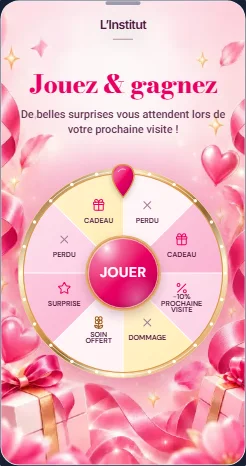
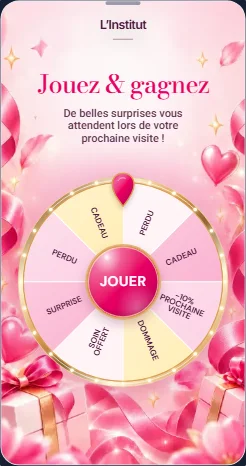
fix(beauty-pop): narrow subtitle and restore text-only radial labels (#626)

Changed region(s): [[0.0569, 0.1502, 0.939, 0.8412]]

diff --git a/apps/web-app/src/components/public/wheel-of-fortune.tsx b/apps/web-app/src/components/public/wheel-of-fortune.tsx
@@ -1,7 +1,6 @@
 "use client";
 
 import { useEffect, useId, useState } from "react";
-import { Flower2, Gift, Percent, Star, X } from "lucide-react";
 import { BeautyPopRim } from "./beauty-pop-rim";
 import { HalloweenWheelVisual } from "@/components/public/halloween-wheel-art";
 import { halloweenWheelVisualSegments } from "@/lib/halloween-wheel-theme";
@@ -545,7 +544,6 @@ export function WheelOfFortune({
               const endAngle = startAngle + segmentAngle - (isRosePowderTemplate || isBeautyTemplate ? 0 : 2.4);
               const midAngle = startAngle + (endAngle - startAngle) / 2;
               const textPoint = polarToCartesian(isRosePowderTemplate ? 208 : isBeautyTemplate ? 194 : 208, midAngle);
-              const PopIcon = segment.tone === "lose" ? X : /%/.test(segment.label) ? Percent : /soin|massage|prestation/i.test(segment.label) ? Flower2 : /surprise/i.test(segment.label) ? Star : Gift;
               const radialTextAngle = midAngle + 90;
               const uprightRadialTextAngle = radialTextAngle > 90 && radialTextAngle < 270
                 ? radialTextAngle - 180
@@ -563,7 +561,6 @@ export function WheelOfFortune({
                 }
               }
               textStyles.fontSize = enforceMinimumWheelPrizeLabelFontSize(textStyles.fontSize);
-              if (isBeautyPop) textStyles.fontSize = Math.min(textStyles.fontSize, 22);
               if (labelLines.length > 1) {
                 textStyles.lineHeight = Math.max(
                   textStyles.lineHeight,
@@ -615,17 +612,16 @@ export function WheelOfFortune({
                       vectorEffect="non-scaling-stroke"
                     />
                   ) : null}
-                  {isBeautyPop ? <PopIcon aria-hidden="true" x={textPoint.x-21} y={textPoint.y-49} width="42" height="42" color={segment.tone === "lose" ? "#a37c99" : /soin|massage/i.test(segment.label) ? "#9c5d1c" : colors.loseColor} strokeWidth={1.8} /> : null}
                   <text
                     x={textPoint.x}
-                    y={textPoint.y + (isBeautyPop ? 20 : 0)}
+                    y={textPoint.y}
                     fill={textColor}
                     fontFamily={isBeautyTemplate || isRoseInstitutTemplate ? textFontFamily("dm-sans") : "Roboto, sans-serif"}
                     fontSize={String(textStyles.fontSize)}
                     fontWeight={isBeautyTemplate || isRoseInstitutTemplate ? "600" : "850"}
                     textAnchor="middle"
                     dominantBaseline="middle"
-                    transform={isBeautyPop ? undefined : `rotate(${isBeautyTemplate || isRoseInstitutTemplate ? uprightRadialTextAngle : radialTextAngle} ${textPoint.x} ${textPoint.y})`}
+                    transform={`rotate(${isBeautyTemplate || isRoseInstitutTemplate ? uprightRadialTextAngle : radialTextAngle} ${textPoint.x} ${textPoint.y})`}
                   >
                     {labelLines.map((line, lineIndex) => (
                       <tspan

diff --git a/apps/web-app/e2e/beauty-pop.spec.ts b/apps/web-app/e2e/beauty-pop.spec.ts
@@ -42,6 +42,16 @@ for(const mode of ["public","preview"]) for(const width of [320,390]) {
     const wheel=(await surface.getByTestId("game-wheel-frame").boundingBox())!;
     expect(wheel.y).toBeGreaterThan(heading.y+heading.height);
     const secondary=(await surface.locator(".okado-wheel-subtitle").boundingBox())!;
+    const subtitleContainer=(await surface.locator(".okado-wheel-subtitle").evaluate(node=>node.parentElement!.getBoundingClientRect().width));
+    expect(secondary.width).toBeLessThanOrEqual(subtitleContainer*.81);
+    const rotor=surface.getByTestId("beauty-pop-rotor");
+    await expect(rotor.locator("svg.lucide")).toHaveCount(0);
+    const labels=rotor.locator("text");
+    await expect(labels).toHaveCount(8);
+    for(const label of await labels.all()) {
+      await expect(label).toHaveAttribute("transform",/^rotate\(/);
+      await expect(label).toHaveAttribute("font-family","var(--font-dm-sans), sans-serif");
+    }
     const pointer=(await surface.getByTestId("beauty-wheel-pointer").boundingBox())!;
     expect(pointer.y).toBeGreaterThanOrEqual(secondary.y+secondary.height);
     await assertNoPageOverflow(page);await page.evaluate(()=>document.fonts.ready);

diff --git a/apps/web-app/src/app/globals.css b/apps/web-app/src/app/globals.css
@@ -1835,7 +1835,9 @@ button:disabled,
 .okado-preview-surface[data-template-id="beauty-pop"] .okado-wheel-subtitle {
   font-size: calc(clamp(0.94rem, 3.8vw, 1.08rem) + 2px);
   font-weight: 500;
-  max-width: 30ch;
+  width: 80%;
+  max-width: 26ch;
+  margin-inline: auto;
   line-height: 1.22;
 }
 

diff --git a/docs/design/beauty-pop-626.md b/docs/design/beauty-pop-626.md
@@ -20,17 +20,34 @@ Pas de copie de l'heure, de la batterie ou de l'encoche de la référence.
   de graisse 800 pour Beauty Pop : le réglage du marchand est respecté.
 - Secteurs rose/ivoire/champagne en dégradé, contour métallique avec 24 points
   lumineux, pointeur fuchsia bordé d'or, disque JOUER brillant sans icône.
-- Cadre et lumières placés hors du conteneur en rotation. Pictogrammes Lucide
-  (Gift, Percent, Flower2, Star, X), pas de nouveaux dessins d'icônes.
+- Cadre et lumières placés hors du conteneur en rotation. Après retour
+  propriétaire : aucun pictogramme dans les segments, libellés centrés avec
+  l'orientation radiale et la police DM Sans communes aux autres roues Beauté.
+- Sous-titre centré à80% de son conteneur, plafonné à26ch, pour dégager les
+  éléments latéraux du fond sans réduire sa taille de police.
 - Miniature harmonisée. Dans l'aperçu compact, suppression de la double
   réduction du titre et des espacements, et ancrage de la roue après le texte
   plutôt que remontée par translation : le pointeur ne couvre plus le sous-titre.
 
-Écarts assumés : les pictogrammes restent vectoriels et lisibles, pas des
-illustrations 3D intégrées dans une image. Les libellés, pertes et dispositions
+Écarts assumés : les pictogrammes de la référence sont retirés à la demande
+du propriétaire. Les libellés, pertes et dispositions
 reflètent les vrais lots du jeu, pas la distribution illustrative de la référence.
 Le rendu s'adapte à la hauteur utile du navigateur plutôt qu'à un plein écran
 de smartphone simulé. Ne pas présenter la fidélité comme une mesure objective.
+
+### Ajustement après retour propriétaire
+
+Le sous-titre passe de30ch à80% du conteneur, avec un plafond26ch, sans
+réduction de police. Les textes de lots retrouvent le même ancrage, orientation
+radiale et calcul de taille que les autres roues Beauté ; décalage sous icône
+et plafonnement de taille spécifiques retirés. Aucun pictogramme de segment
+ou import Lucide correspondant ne subsiste dans la roue. Le fond, les dorures,
+le pointeur et le bouton ne changent pas. Les tests contrôlent la largeur
+effective, l'absence de pictogrammes et l'orientation des huit libellés.
+Les8tests dédiés et77tests de finitions/thèmes ont été rejoués avec succès.
+Captures public/aperçu mobile et vrai wizard1280×720/600 inspectées puis mises
+à jour : sous-titre recentré loin des rubans et libellés sans icône, sans
+chevauchement avec le pointeur. Aucun réglage utilisateur ni asset de fond changé.
 
 ## Assets et provenance
 

diff --git a/docs/PRODUCT.md b/docs/PRODUCT.md
@@ -8,8 +8,10 @@ résolu à l'affichage ; une image manuelle ou une couleur de fond personnalisé
 reste prioritaire et n'est pas propagée aux autres modèles. Les nouveaux choix
 proposent Bodoni, un titre fuchsia et un logo/sous-titre prune. Les polices,
 couleurs et espacements déjà mémorisés restent prioritaires ; aucun jeu n'est
-réécrit en base. Le bouton brillant reste sans icône, les pictogrammes de lots
-proviennent de Lucide, et le contour lumineux reste fixe pendant la rotation.
+réécrit en base. Le bouton brillant et les segments restent sans icône.
+Les libellés utilisent la présentation radiale des autres roues Beauté ;
+le sous-titre est resserré au centre, loin des rubans latéraux.
+Le contour lumineux reste fixe pendant la rotation.
 Le tirage, les lots configurés, les probabilités et le retrait sont inchangés.
 [Référence, provenance et vérifications](design/beauty-pop-626.md).
 
